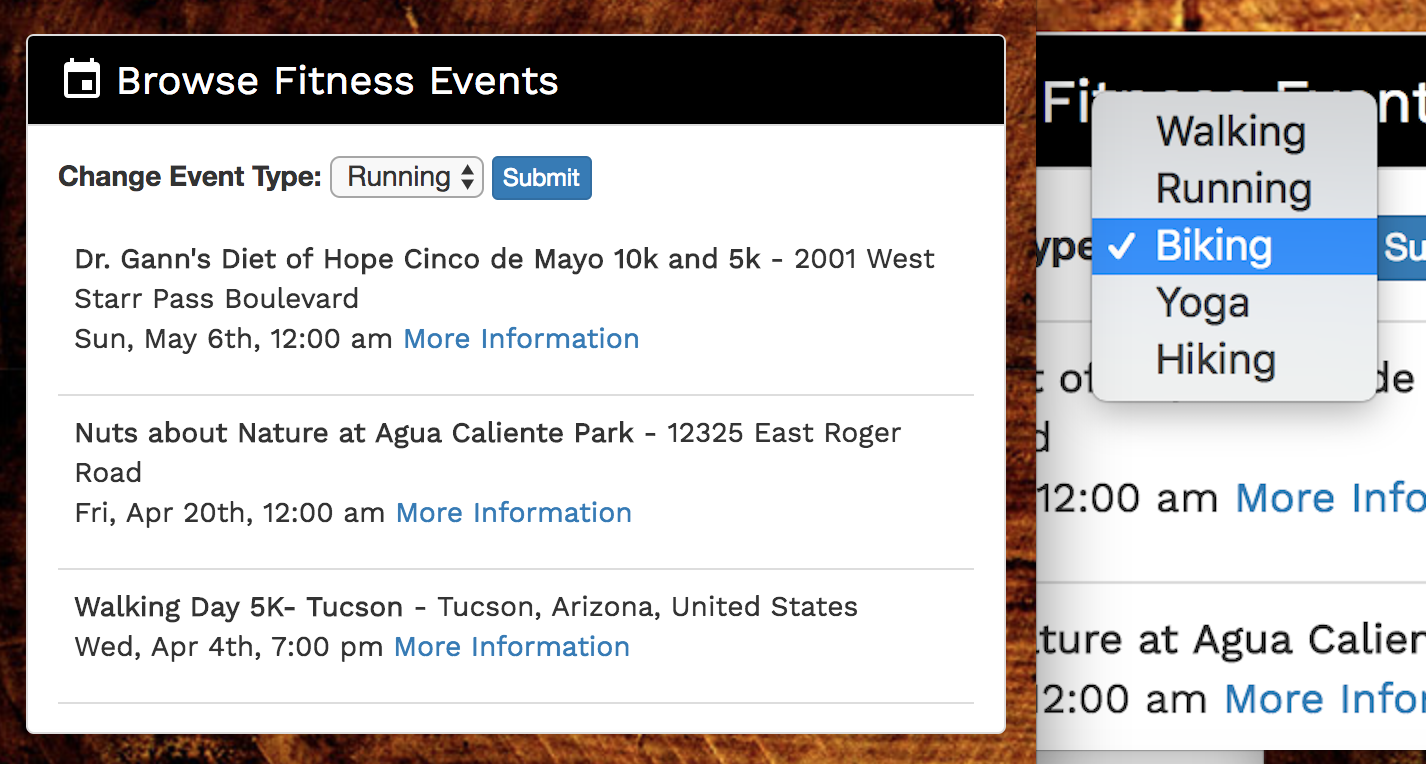
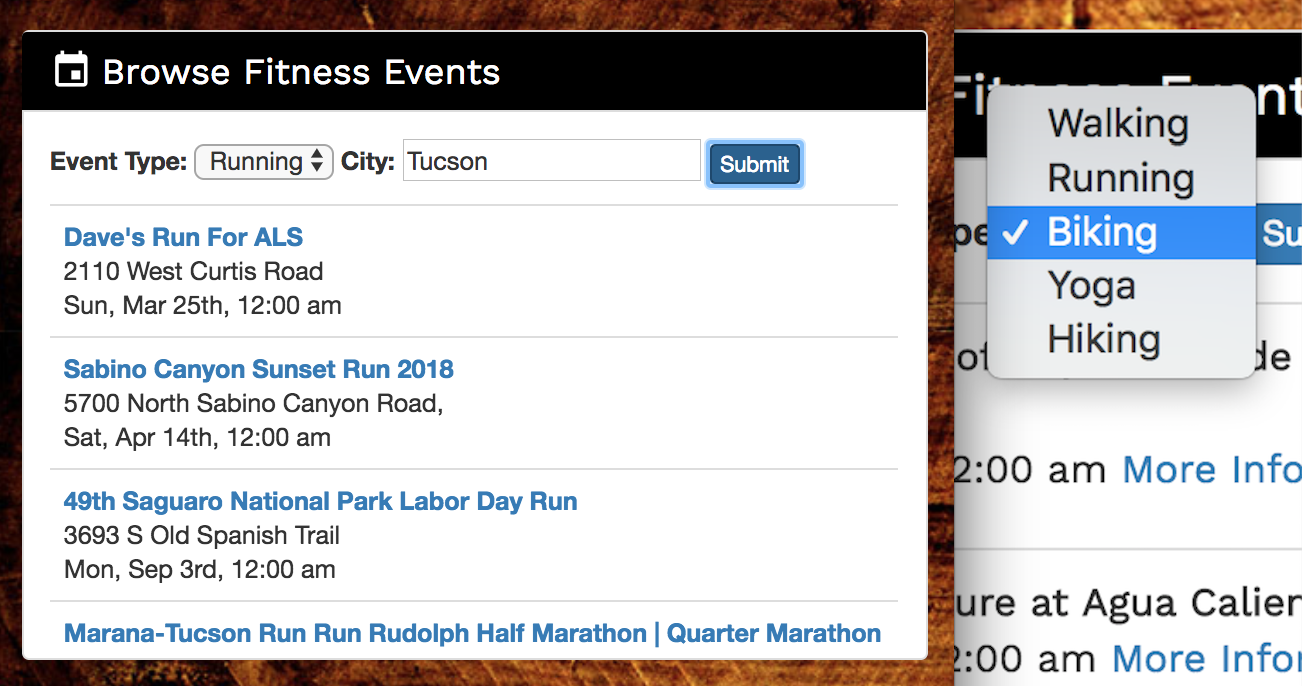
Added location for events

Changed region(s): [[0.0, 0.0, 1.0, 1.0], [0.9524, 0.2143, 1.0, 0.2449]]

diff --git a/javascript/events.js b/javascript/events.js
@@ -54,7 +54,9 @@ $(document).ready(function(){
 
         var eventType1 = $("#workout-event").val();
 
-        var queryURL = "http://api.eventful.com/json/events/search?app_key=J5kvbtGnvrsF2MwM&keywords=" + eventType1 + "&location=Tucson&date=Future";
+        var eventLocation = $("#workout-location").val().trim();
+
+        var queryURL = "http://api.eventful.com/json/events/search?app_key=J5kvbtGnvrsF2MwM&keywords=" + eventType1 + "&location=" + eventLocation + "&date=Future";
 
         $.ajax({
             url: 'https://corsbridge.herokuapp.com/' + encodeURIComponent(queryURL),
@@ -62,7 +64,12 @@ $(document).ready(function(){
             dataType: 'json'
         }).then(function (response) {
 
-            console.log(response);
+            console.log("Response: " + response);
+            if(response.events === null){
+                // TODO: Show error message in html elemtsnt
+                $('#event-table > tbody').html("<strong>" + 'No Event Results for \'' + eventLocation + '\'' + "</strong>");
+                return false;
+            }
 
             var eventful = response.events.event;
 
@@ -80,7 +87,8 @@ $(document).ready(function(){
                 eventDateString = moment(startTime).format('ddd, MMM Do, h:mm a');
                 //console.log("Moment start time: " + eventDateString);
 
-                eventLink = eventful[i].url;
+                var eventLink = $("<a>").attr("href", eventful[i].url).append(eventTitle);
+                // eventLink = eventful[i].url;
                 //console.log("Link: " + eventLink);
 
                 // var eventLinkContainer = $("<a>")
@@ -97,7 +105,7 @@ $(document).ready(function(){
 
         if ( (eventTitle !== undefined) && (eventVenue !== undefined)) {
 
-            var row = $('<tr>').append('<td>' + '<p id="event-titles"><strong>' + eventTitle + '</strong>' + ' - ' + eventVenue + '<br>' + eventDateString + ' <a href="' + eventLink + '" target="_blank">' + "More Information" + '</a>' + '<br>' + '</td>');
+            var row = $('<tr>').append('<td>' + '<span id="event-titles"><strong>' + '<a href="' + eventLink + '" target="_blank">'  + eventTitle + '</a></strong></span>' + '<br>' + eventVenue + '<br>' + eventDateString + '<br>' + '</td>');
 
             $('#event-table > tbody').append(row);
         }

diff --git a/index.html b/index.html
@@ -111,7 +111,7 @@
             <div class="event-choice">
               <!-- Workout activity input -->
               <div>
-                <label for="workout-event" id="event-title">Change Event Type:</label>
+                <label for="workout-event" id="event-title">Event Type:</label>
                 <select id="workout-event">
                   <option value="walking">Walking</option>
                   <option value="running">Running</option>
@@ -119,6 +119,9 @@
                   <option value="yoga">Yoga</option>
                   <option value="hiking">Hiking</option>
                 </select>
+                <!-- Workout location input -->
+                <label for="location"> City:</label>
+                <input type="locationChoice" id="workout-location" name="user_location" placeholder="Your City">
                 <!-- Submit Button -->
                 <button class="btn btn-primary btn-xs" id="find-event" type="submit">Submit</button>
               </div>

diff --git a/javascript/logic.js b/javascript/logic.js
@@ -157,6 +157,8 @@ $(document).ready(function(){
                 // $('#beer-table').empty();
                 return false;
               }
+
+              $('#beer-table > tbody').empty();
               
               for (var i=0; i<12; i++) {
 

diff --git a/css/beer.css b/css/beer.css
@@ -184,3 +184,12 @@ SEARCH RESULTS
 	font-weight: bold;
 	font-size: 1.2em;
 }
+
+
+#event-titles {
+	font-weight: bold;
+}
+
+#workout-information {
+	overflow: hidden;
+}

diff --git a/README.md b/README.md
@@ -80,6 +80,7 @@ Click 'More Information' to visit the event website.
 
 
 # Future Development
+* Enter page 
 * Create user login, track calories burned over time and favorite beers
 * Show more details in beer results -- images, search by location, map location, ratings
 * Convert website into Android, iOS mobile app
